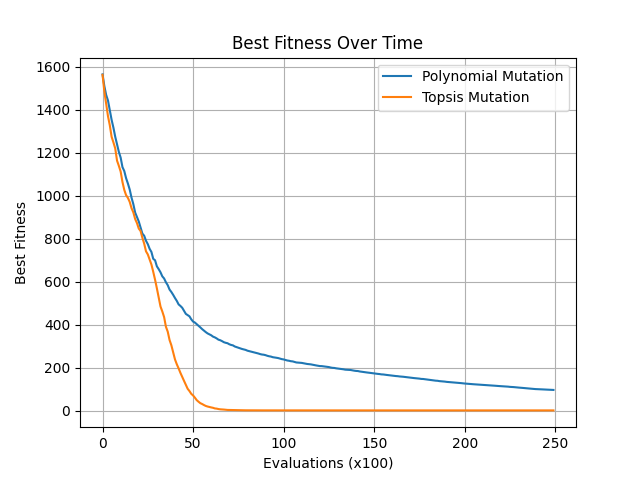
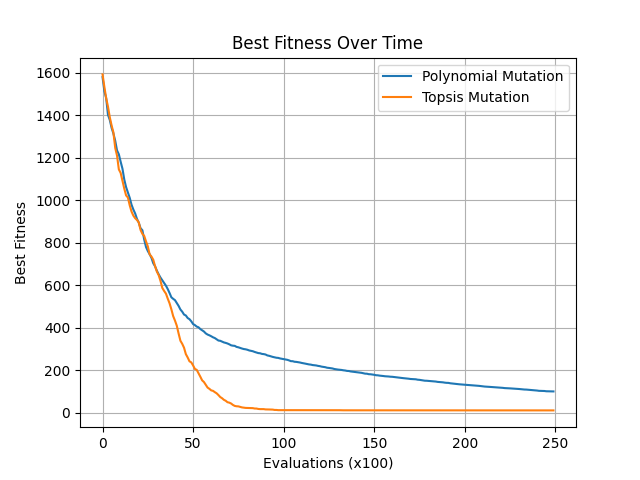
2 Experiments added

Changed region(s): [[0.0625, 0.125, 0.9062, 0.875], [0.0625, 0.5625, 0.125, 0.625], [0.0625, 0.4688, 0.125, 0.5312]]

diff --git a/topsis_mutation/main.py b/topsis_mutation/main.py
@@ -71,6 +71,8 @@ if __name__ == "__main__":
     ga_params = config["genetic_algorithm_params"]
     poly_mutation_params = config["polynomial_mutation_params"]
     topsis_mutation_params = config["topsis_mutation_params"]
+    exp_1_params = config["exp1_params"]
+    exp_2_params = config["exp2_params"]
 
     # Initialize the Rastrigin problem
     problem = Rastrigin(number_of_variables=number_of_variables)
@@ -78,6 +80,8 @@ if __name__ == "__main__":
     # Run the experiments
     poly_history_sum = np.zeros(int(ga_params["max_evaluations"]/100))
     top_percentage_history_sum = np.zeros(int(ga_params["max_evaluations"]/100))
+    exp_1_history_sum = np.zeros(int(ga_params["max_evaluations"]/100))
+    exp_2_history_sum = np.zeros(int(ga_params["max_evaluations"]/100))
     
     for _ in range(num_tests):
         # PolynomialMutation
@@ -122,9 +126,74 @@ if __name__ == "__main__":
 
         top_percentage_history_sum += top_percentage_history
 
+
+        # Experiment 1
+        exp_1_algorithm = CustomGeneticAlgorithm(
+            problem=problem,
+            population_size=ga_params["population_size"],
+            offspring_population_size=ga_params["offspring_population_size"],
+            mutation=TopsisMutation(
+                probability=exp_1_params["probability"],
+                selected_percentage=exp_1_params["top_percentage"],
+                push_strength=exp_1_params["push_strength"],
+                best=exp_1_params["toBest"],
+                worst=exp_1_params["fromWorst"],
+                randomized_angle=exp_1_params["randomizedAngle"],
+                randomized_point=exp_1_params["randomizedPoint"],
+                population=[]
+            ),
+            crossover=SBXCrossover(probability=0.9, distribution_index=20),
+            selection=BinaryTournamentSelection(),
+            termination_criterion=StoppingByEvaluations(max_evaluations=ga_params["max_evaluations"])
+        )
+        exp_1_history = run_experiment(exp_1_algorithm, ga_params["max_evaluations"])
+        # Set the population for the mutation object
+        exp_1_algorithm.mutation_operator.set_mutation_population(exp_1_algorithm.solutions)
+        exp_1_history_sum += exp_1_history
+
+
+        # Experiment 2
+        exp_2_algorithm = CustomGeneticAlgorithm(
+            problem=problem,
+            population_size=ga_params["population_size"],
+            offspring_population_size=ga_params["offspring_population_size"],
+            mutation=TopsisMutation(
+                probability=exp_2_params["probability"],
+                selected_percentage=exp_2_params["top_percentage"],
+                push_strength=exp_2_params["push_strength"],
+                best=exp_2_params["toBest"],
+                worst=exp_2_params["fromWorst"],
+                randomized_angle=exp_2_params["randomizedAngle"],
+                randomized_point=exp_2_params["randomizedPoint"],
+                population=[]
+            ),
+            crossover=SBXCrossover(probability=0.9, distribution_index=20),
+            selection=BinaryTournamentSelection(),
+            termination_criterion=StoppingByEvaluations(max_evaluations=ga_params["max_evaluations"])
+        )
+        exp_2_history = run_experiment(exp_2_algorithm, ga_params["max_evaluations"])
+        # Set the population for the mutation object
+        exp_2_algorithm.mutation_operator.set_mutation_population(exp_2_algorithm.solutions)
+        exp_2_history_sum += exp_2_history
+
+
     # Calculate average histories
     poly_history_avg = poly_history_sum / num_tests
     top_percentage_history_avg = top_percentage_history_sum / num_tests
+    exp_1_history_avg = exp_1_history_sum / num_tests
+    exp_2_history_avg = exp_2_history_sum / num_tests
+
+    # Exp 1 to TOPSIS comparison
+    plt.plot(top_percentage_history_avg, label="Topsis Mutation (Push, Pull)")
+    plt.plot(exp_1_history_avg, label="Topsis Mutation (Push, Pull, Angle)")
+    plt.plot(exp_2_history_avg, label="Topsis Mutation (Push, Pull, Point)")
+    plt.title("Best Fitness Over Time")
+    plt.xlabel("Evaluations (x100)")
+    plt.ylabel("Best Fitness")
+    plt.legend()
+    plt.grid()
+    plt.savefig("plots/topsis_mutation/experiment1_combined_plot.png")
+    plt.show()
 
 
     plt.plot(poly_history_avg, label="Polynomial Mutation")
@@ -135,7 +204,7 @@ if __name__ == "__main__":
     plt.legend()
     plt.grid()
     plt.savefig("plots/topsis_mutation/combined_plot.png")
-    plt.show()
+    # plt.show()
 
     plt.plot(poly_history_avg)
     plt.title("Polynomial Mutation - Best Fitness Over Time")
@@ -152,3 +221,6 @@ if __name__ == "__main__":
     plt.grid()
     plt.savefig("plots/topsis_mutation/top_percentage_averaging_mutation_plot.png")
     # plt.show()
+
+
+# Tests and comparisons: 
